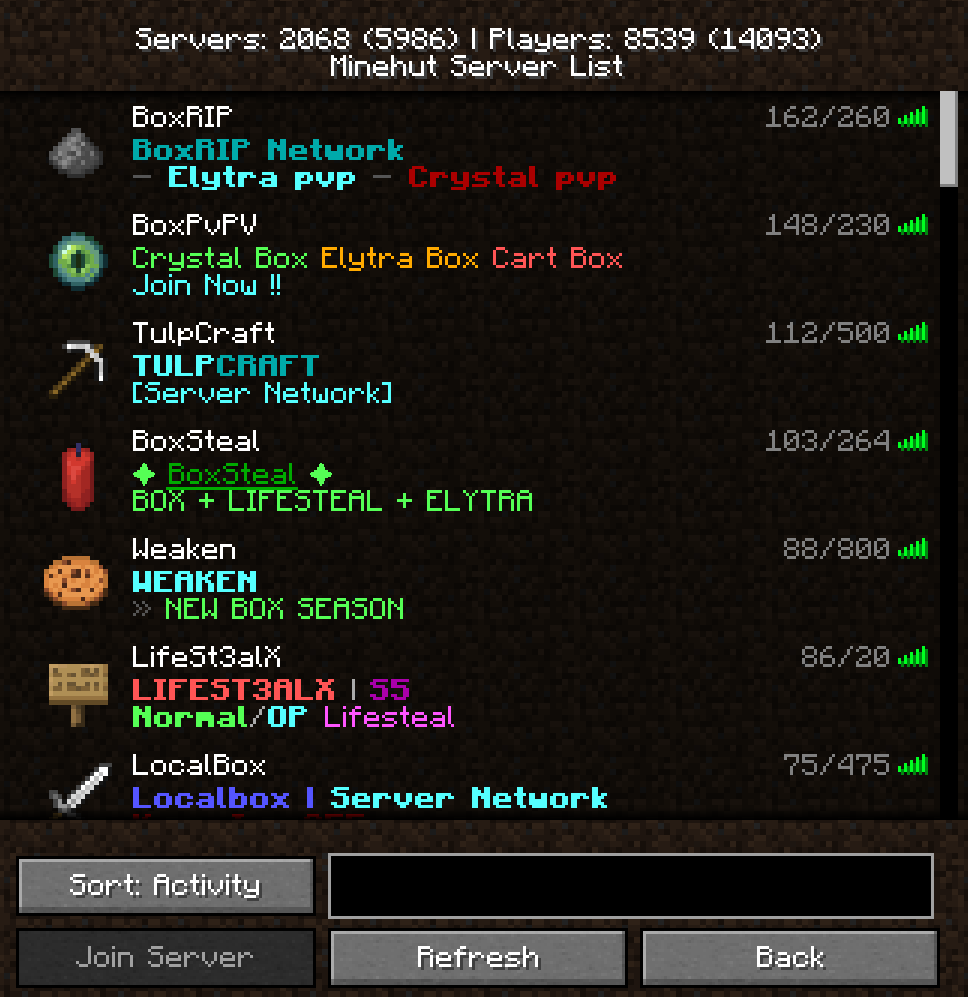
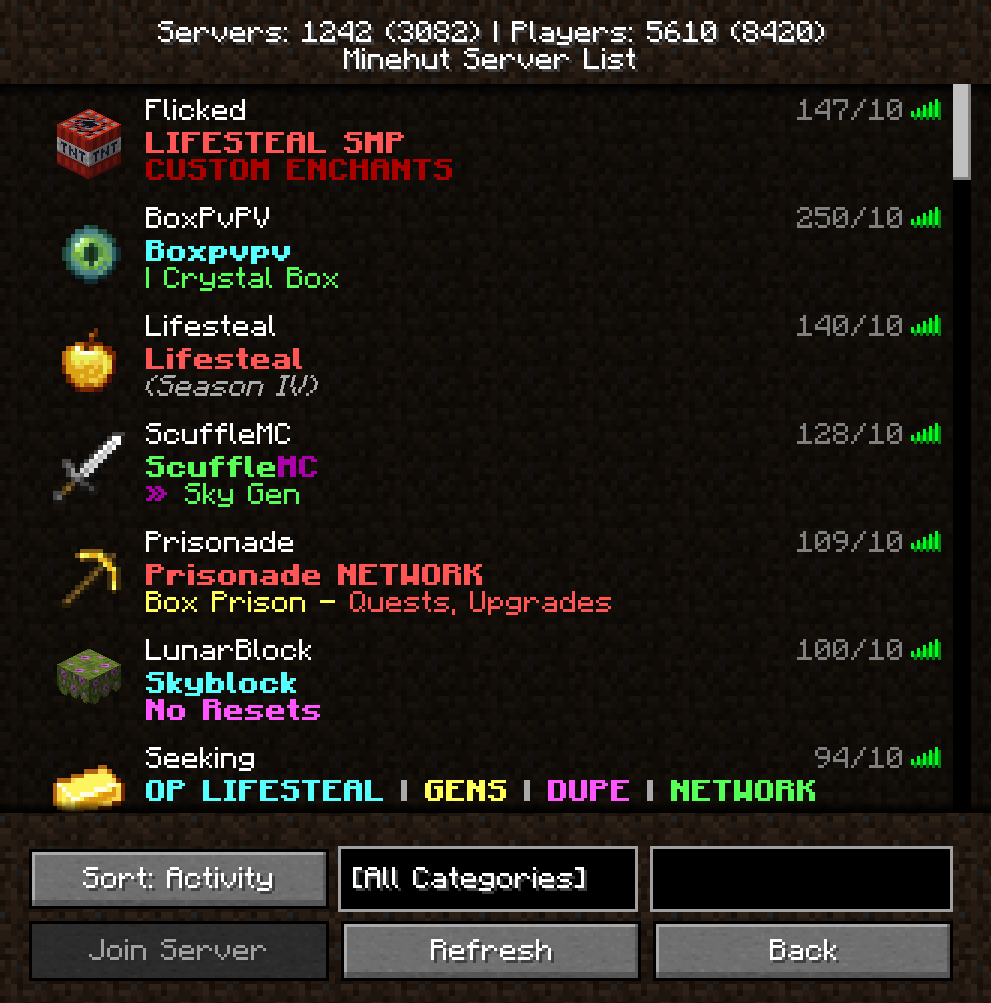
Added description
- Description
- Changed subtitle on main page
- Updated server list image
- Updated adblock image

diff --git a/index.html b/index.html
@@ -39,14 +39,16 @@
                     <script src="background.js"></script>
                     <div class="text">
                         <h1>Utility Fabric mod for Minehut</h1>
-                        <span>Mainly for FlagClash</span>
+                        <span>Specialities for special servers</span>
                     </u>
                     <a href="https://github.com/Kuphack/kuphack/releases">
                         <button>Download <i class="fa-solid fa-download"></i></button>
                     </a>
                 </div>
             </div>
-            <span id="legal">Kuphack isn't affiliated with <a href="https://minehut.com/">Minehut</a> or <a href="https://www.superleague.com/">Super League Gaming</a>. Minehut is a registered trademark of <a href="https://www.superleague.com/">Super League Gaming, inc.</a></span>
+            <span id="description">Modification for the Minecraft server Minehut adding utility features such as a custom server list for browsing servers outside of Minehut, adblock for the lobby and some special ones for special servers. More information about features and such are shown on the features tab.
+                <span id="legal">Kuphack isn't affiliated with <a href="https://minehut.com/">Minehut</a> or <a href="https://www.superleague.com/">Super League Gaming</a>. Minehut is a registered trademark of <a href="https://www.superleague.com/">Super League Gaming, inc.</a></span>
+            </span>
         </div>
     </body>
 </html>

diff --git a/index.css b/index.css
@@ -1,7 +1,7 @@
 .content .text {
     text-align: left;
     margin: 30px;
-    width: 70%;
+    width: 40%;
     position: absolute;
     top: calc(325px + 100vw * 0.1);/*500px;/*50%;*/
     transform: translateY(-50%);
@@ -23,12 +23,20 @@ body { /* Disable Scrolling because of p5js*/
     }
 }
 
-#legal {
-    font-size: 13px;
-    margin-top: -10px;
+#description {
+    font-size: 18px;
+    margin-top: -25px;
     margin-left: 30px;
     word-break: keep-all;
     display: inline-block;
+}
+
+#legal {
+    font-size: 12px;
+    margin-top: -5px;
+    margin-left: 0px;
+    word-break: keep-all;
+    display: absolute;
 }
 
 #legal a {
